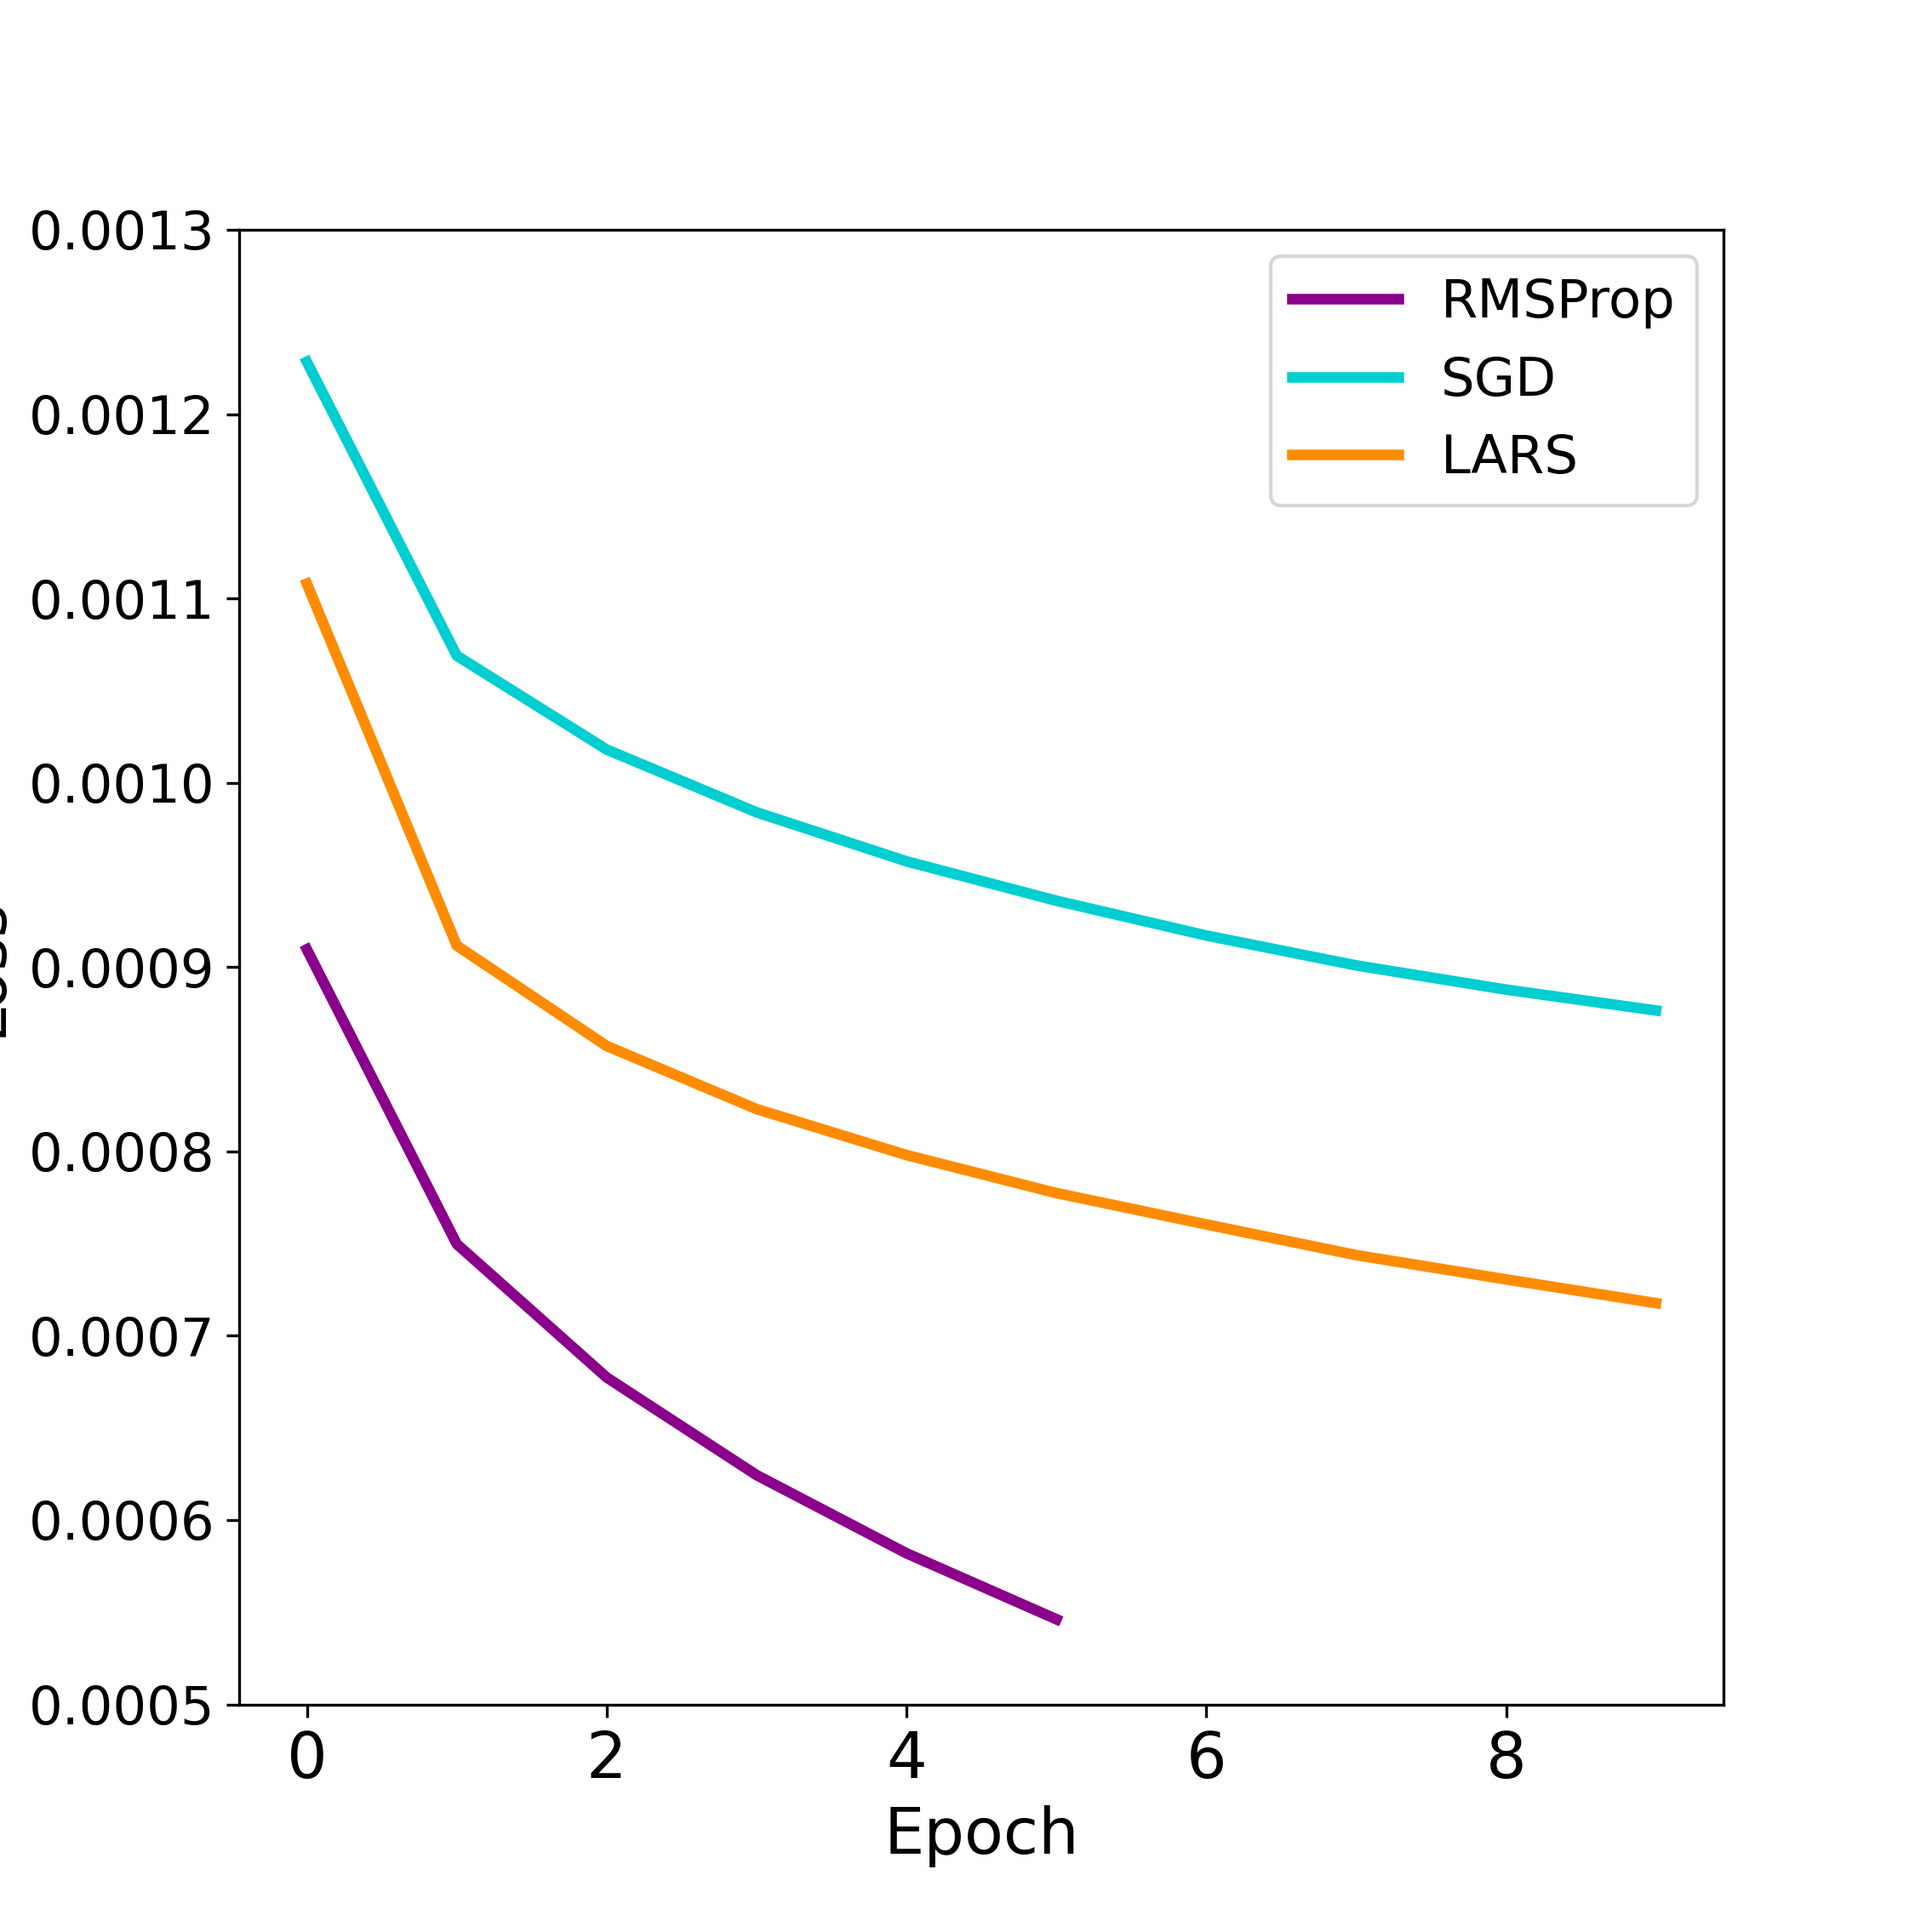
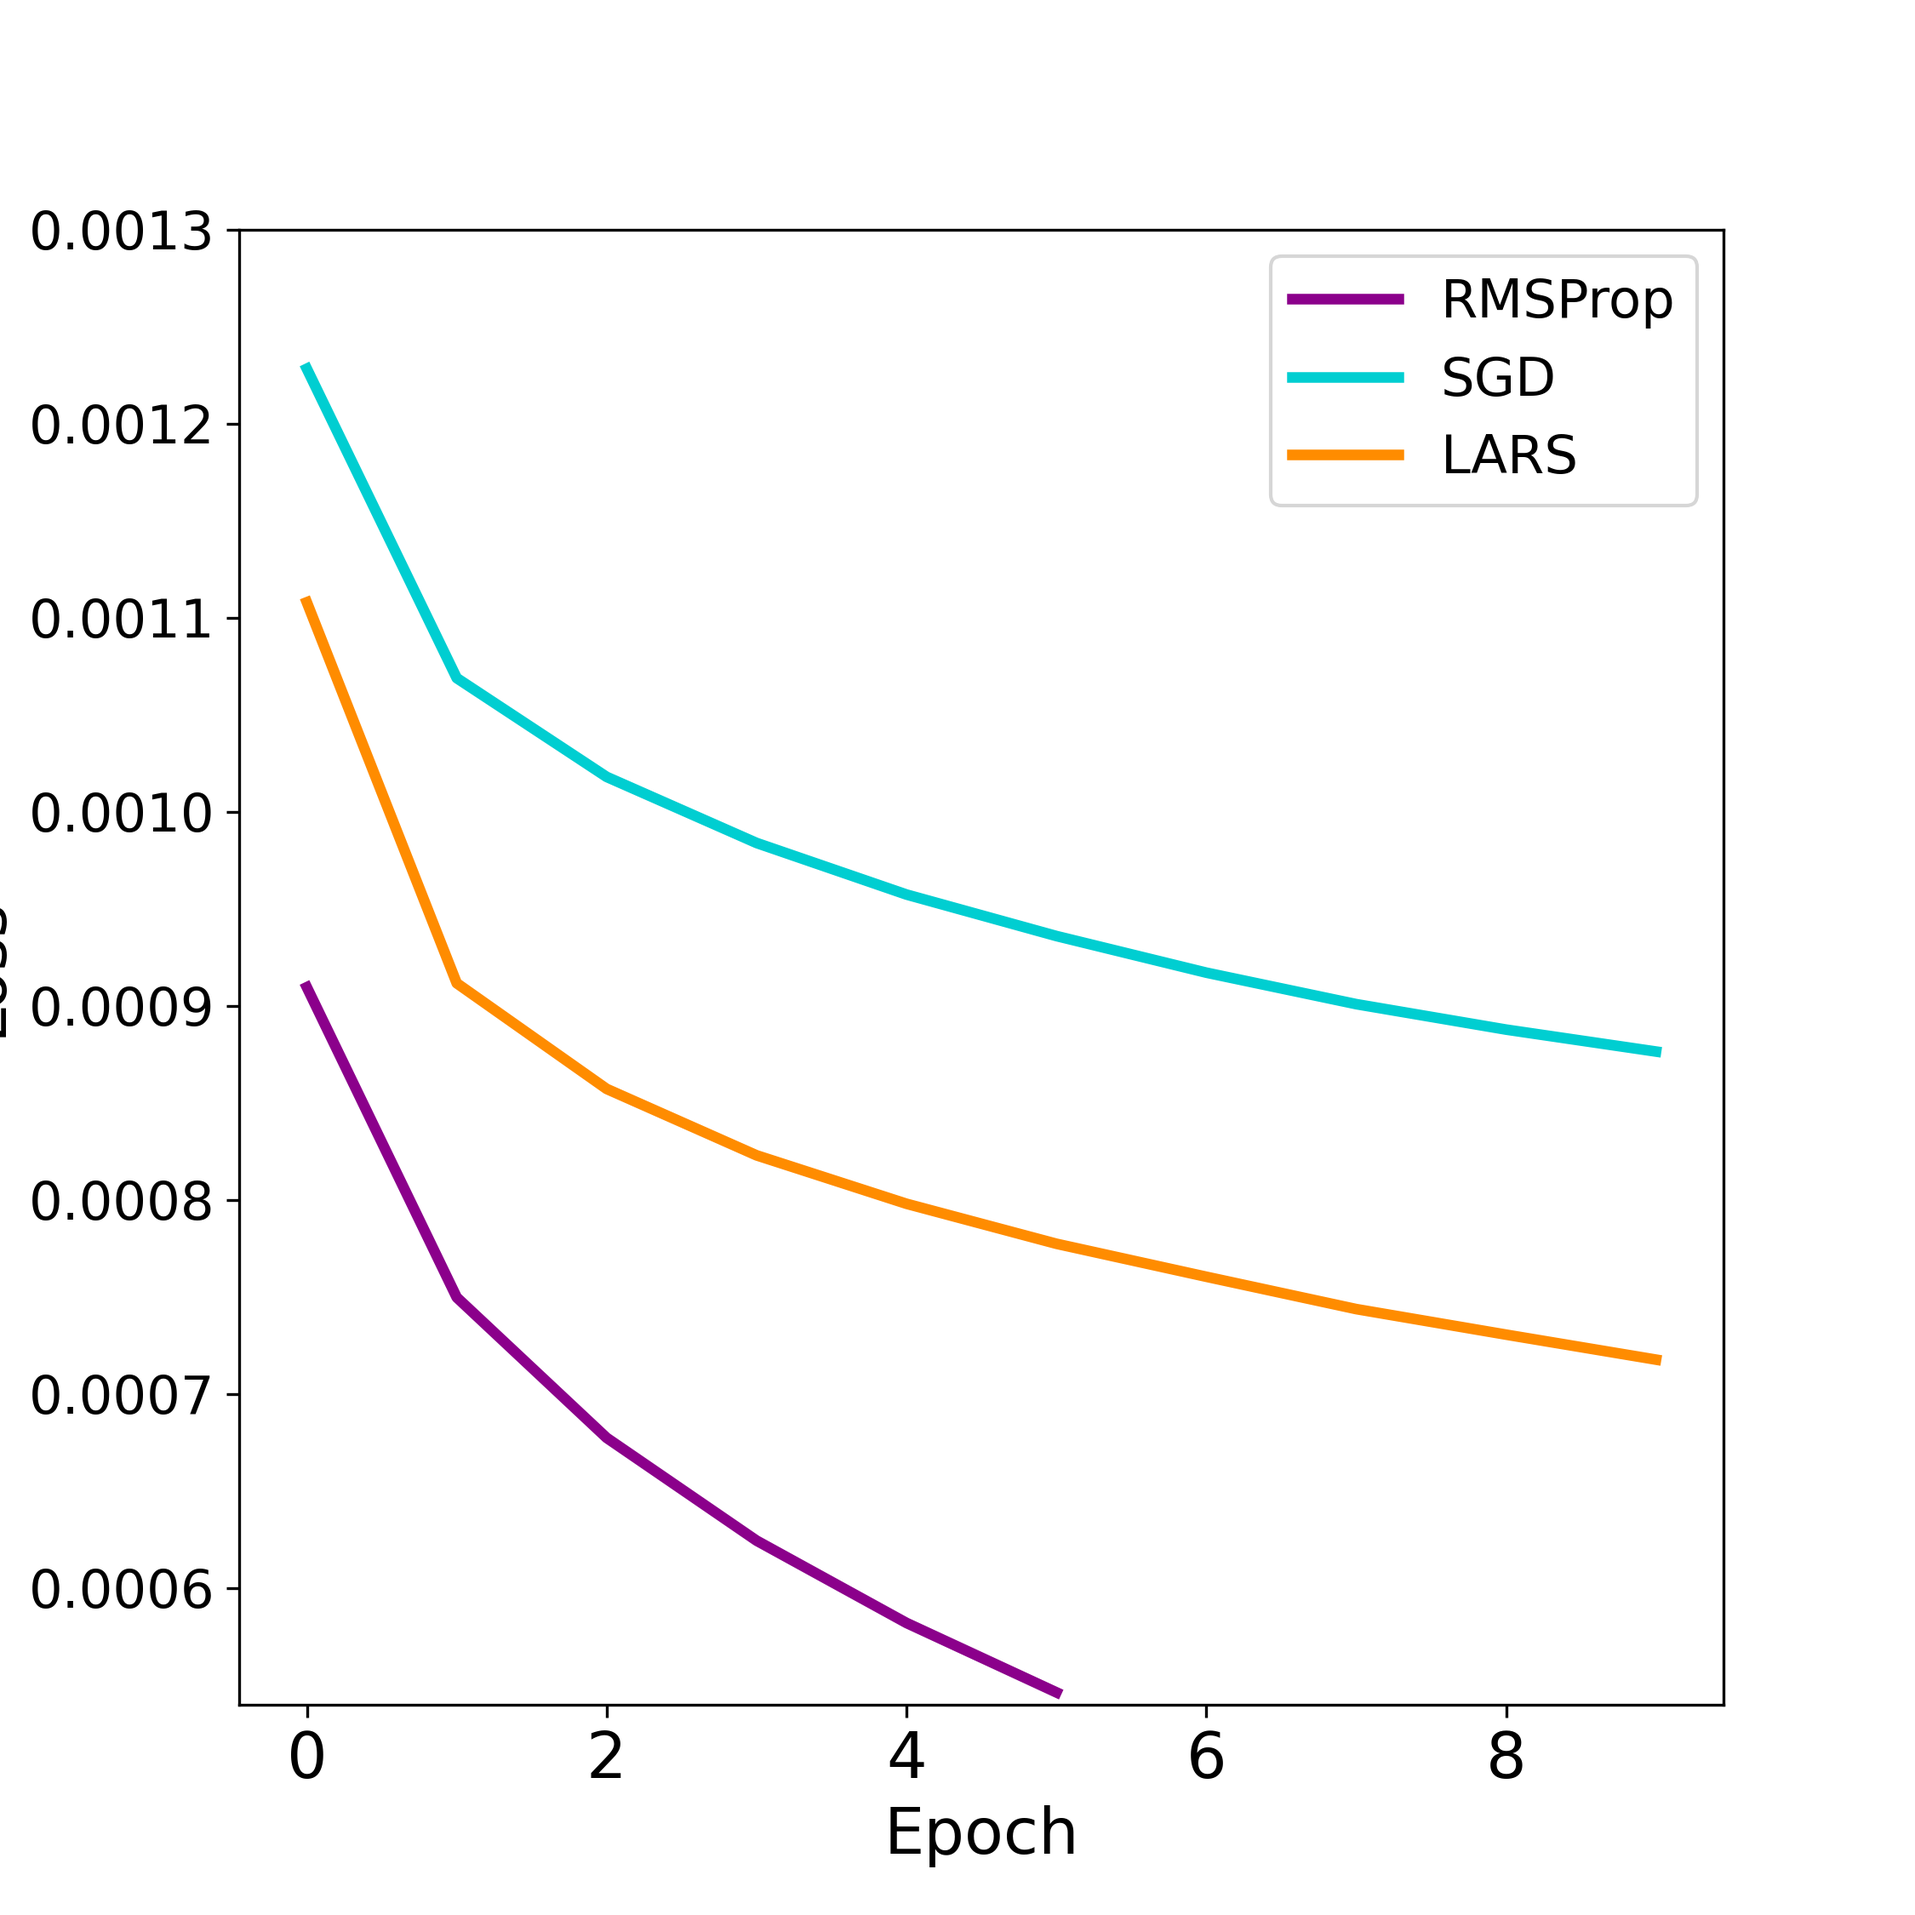
Finished training for all InfoNCE models

diff --git a/pretrained/model_configs.py b/pretrained/model_configs.py
@@ -14,7 +14,7 @@ CONFIGS = {"Pretrained_Pairwise": {"learning_manager": {"model_name": "Pretraine
                                                 "momentum": 0.7, "weight_decay": 0, "alpha": 0.99, "eps": 1e-08,
                                                 "trust_coef": 0.001}},
            "Pretrained_InfoNCE": {"learning_manager": {"model_name": "Pretrained_InfoNCE",
-                                                        "encoder": "InfoNCE_RMS"},
+                                                        "encoder": "InfoNCE_SGD"},
                                    "training": {"epochs": 10, "batch_size": 32, "optimizer_name": "sgd", "lr": 0.005,
                                                 "momentum": 0.7, "weight_decay": 0, "alpha": 0.99, "eps": 1e-08,
                                                 "trust_coef": 0.00125}}

diff --git a/prediction.py b/prediction.py
@@ -15,8 +15,8 @@ import numpy as np
 MODELS = {"supervised": ["Supervised_SGD", "Supervised_RMS", "Supervised_LARS"],
           "pretrained": ["Pretrained_Pairwise", "Pretrained_Triplet", "Pretrained_InfoNCE"],
           "contrastive": ["Pairwise_SGD", "Pairwise_RMS", "Pairwise_LARS",
-                          "Triplet_SGD", "Triplet_LARS", "Triplet_LARS",
-                          "InfoNCE_SGD", "InfoNCE_RMS", "InfoNCE_LARS"]}
+                          "Triplet_SGD", "Triplet_RMS", "Triplet_LARS",
+                          "InfoNCE_SGD", "InfoNCE_LARS", "InfoNCE_RMS"]}
 
 MAIN_DIR = os.path.abspath("./")
 

diff --git a/visualization/contrastive_losses/visualize_contrastive_losses.py b/visualization/contrastive_losses/visualize_contrastive_losses.py
@@ -49,7 +49,7 @@ def save_optimizer_visualization(loss_name="Pairwise", linewidth=3, large_fontsi
 
     # Determine the y limits by first finding the position of the first non-zero digit and then rounding to that
     max_round_digits = int(('%e' % max_loss).partition('-')[2]) + 1
-    min_round_digits = int(('%e' % min_loss).partition('-')[2])
+    min_round_digits = int(('%e' % min_loss).partition('-')[2]) + 1
     y_max = round_decimals_up(max_loss, max_round_digits)
     y_min = round_decimals_down(min_loss, min_round_digits)
 
